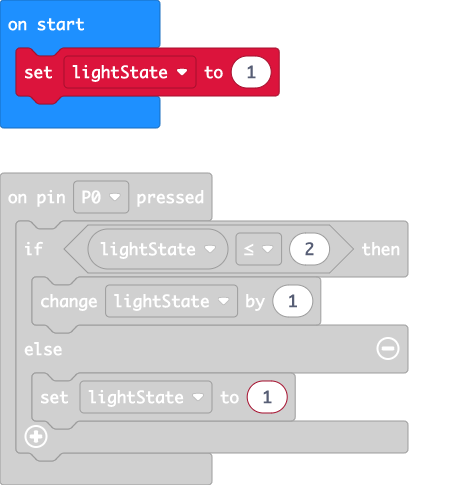
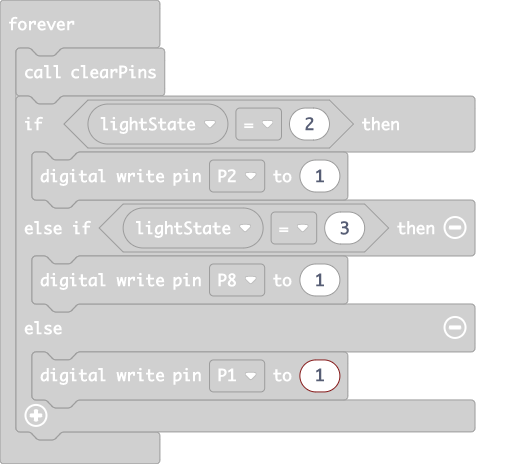
Update main.blocks, main.ts

diff --git a/main.ts b/main.ts
@@ -19,6 +19,6 @@ basic.forever(function () {
     } else if (lightState == 3) {
         pins.digitalWritePin(DigitalPin.P8, 1)
     } else {
-        pins.digitalWritePin(DigitalPin.P1, 0)
+        pins.digitalWritePin(DigitalPin.P1, 1)
     }
 })
